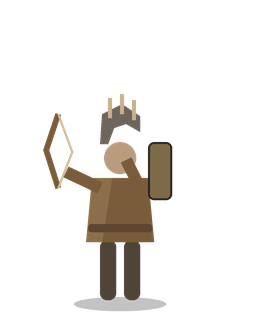
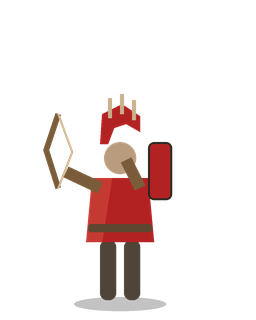
atelier barbares 2D: rouge CUIT dans la base, zero accent (decision Erik 12/09) — village barbare (tente rouge), guerrier et archer barbares (tuniques + details rouges, ~53% du sprite), calques _accent vides donc aucune teinte de rendu; accent barbare revenu au gris-brun d'origine (sans effet); fich

Changed region(s): [[0.3125, 0.4375, 0.6875, 0.7812], [0.375, 0.3125, 0.5625, 0.4688]]

diff --git a/apps/web/src/lib/atelier/catalogue.ts b/apps/web/src/lib/atelier/catalogue.ts
@@ -206,7 +206,10 @@ function sprites2d(): AssetAtelier[] {
   }
   out.push(spriteAsset('ville_settlement', 'Ville (settlement)', `${SRC_GENERATEUR('render_entity')} — textures.ts (cities.settlement)`, true));
   out.push(spriteAsset('ville_capitale', 'Ville (capitale)', `${SRC_GENERATEUR('render_entity')} — textures.ts (cities.capital)`, true));
-  out.push(spriteAsset('village_barbare', 'Village barbare (sprite 2D)', `${SRC_GENERATEUR('render_entity')} — textures.ts (villageBarbare)`, true));
+  // rouge CUIT dans la base (décision Erik 12/09) — aucune variante d'accent
+  out.push(spriteAsset('village_barbare', 'Village barbare (sprite 2D)', `${SRC_GENERATEUR('render_entity')} (rouge cuit) — textures.ts (villageBarbare)`, false));
+  out.push(spriteAsset('unite_barbare_guerrier', 'Guerrier barbare (sprite 2D)', `${SRC_GENERATEUR('render_entity')} (rouge cuit) — textures.ts (units, barbare_guerrier)`, false));
+  out.push(spriteAsset('unite_barbare_archer', 'Archer barbare (sprite 2D)', `${SRC_GENERATEUR('render_entity')} (rouge cuit) — textures.ts (units, barbare_archer)`, false));
   out.push(spriteAsset('hutte', 'Hutte bonus (sprite 2D)', `${SRC_GENERATEUR('render_entity')} — textures.ts (hutte)`, true));
   for (const id of Object.keys(BUILDINGS)) {
     out.push(spriteAsset(`batiment_${id}`, `Bâtiment ${BUILDINGS[id]!.name}`, `${SRC_GENERATEUR('render_entity')} — textures.ts (hutte/unites : modules ville 2D)`, true));

diff --git a/apps/web/tests/atelier-catalogue.test.ts b/apps/web/tests/atelier-catalogue.test.ts
@@ -87,10 +87,14 @@ describe('atelier — catalogue L0', () => {
     for (const id of Object.keys(ARTEFACTS.pool).filter((k) => !ARTEFACTS.pool[k]!.dlcOnly).sort()) {
       attends.push(`artefact_${id}`, `artefact_${id}_accent`);
     }
+    // Barbares (décision Erik 12/09) : rouge CUIT dans la base, AUCUN accent —
+    // village sans `_accent`, unités barbares cataloguées sans accent.
     attends.push(
       'ville_settlement', 'ville_settlement_accent',
       'ville_capitale', 'ville_capitale_accent',
-      'village_barbare', 'village_barbare_accent',
+      'village_barbare',
+      'unite_barbare_guerrier',
+      'unite_barbare_archer',
       'hutte', 'hutte_accent',
     );
     for (const stem of attends) {

diff --git a/apps/web/src/lib/render/textures.ts b/apps/web/src/lib/render/textures.ts
@@ -21,9 +21,11 @@ import type { TerrainId } from '@game/rules';
 
 /** Couleurs d'accent joueurs — SPEC-ART §3.3/§4 (extensible à 8). */
 export const PLAYER_COLORS: Record<string, number> = {
-  p1: 0xd64545, // rouge vif
+  p1: 0xe0a93f, // doré (décision Erik 12/09 : le rouge est réservé aux barbares)
   p2: 0x3b6fd6, // bleu vif
   // R-95 (Phase 7d) : accent dédié des barbares — gris-brun, ni rouge ni bleu.
+  // Sans effet depuis le 12/09 : les sprites barbares ont leur rouge CUIT dans
+  // la base (décision Erik), leurs calques accent sont vides.
   barbarien: 0x8a7a66,
 };
 export function playerColor(engineId: string): number {

diff --git a/apps/web/src/pages/Atelier.svelte b/apps/web/src/pages/Atelier.svelte
@@ -354,7 +354,7 @@
 
   // --- Sprites 2D : variantes d'accent joueur (teinte canvas) -----------------
   const ACCENTS: Array<{ nom: string; couleur: string; cle: string }> = [
-    { nom: 'Joueur 1', couleur: '#d64545', cle: 'p1' },
+    { nom: 'Joueur 1', couleur: '#e0a93f', cle: 'p1' },
     { nom: 'Joueur 2', couleur: '#3b6fd6', cle: 'p2' },
     { nom: 'Barbare', couleur: '#8a7a66', cle: 'barbarien' },
   ];

diff --git a/assets-src/tools/generate.py b/assets-src/tools/generate.py
@@ -662,14 +662,17 @@ def unite_legion(db, da, w, h):
     db.rrect(scut, 10, fill=GRIS_ARMURE, outline=INK, width=3)
     db.rrect((cx - 76, ground - 130, cx - 28, ground - 52), 8, outline=OR, width=3)
     db.ellipse((cx - 58, ground - 104, cx - 46, ground - 92), fill=OR)
-# ------------------------------------------------- barbares (Phase 7d, R-95)
-# Accent dédié côté rendu : gris-brun (ni rouge ni bleu) — les calques accent
-# restent blancs conformément à la SPEC-ART (teinte appliquée au rendu).
+# ------------------------------------------------- barbares (décision Erik 12/09)
+# AUCUNE teinte d'accent pour les barbares : le rouge est CUIT dans la base
+# (convention Civ). Les calques accent de ces trois assets restent vides.
+
+ROUGE_BARBARE = "#B32222"     # tente/étoffes rouges des barbares
+ROUGE_BARBARE_CLAIR = "#C43A32"  # face éclairée (même hue, +lumière)
 
 
 def unite_barbare_guerrier(db, da, w, h):
     """256×320 : guerrier barbare — tunique de peaux, casque à cornes, massue
-    cloutée ; bande d'épaules + ceinture d'os = accent."""
+    cloutée ; bande d'épaules + ceinture ROUGES cuites (aucun accent)."""
     cx, ground = 128, 300
     shadow(db, cx, ground + 4, 52)
     # jambes trapues
@@ -677,14 +680,13 @@ def unite_barbare_guerrier(db, da, w, h):
     db.rrect((cx + 6, ground - 58, cx + 26, ground), 8, fill="#4E4438")
     db.rrect((cx - 30, ground - 8, cx - 2, ground + 2), 4, fill="#3E342A")
     db.rrect((cx + 2, ground - 8, cx + 30, ground + 2), 4, fill="#3E342A")
-    # tunique de peaux (brun fauve) — plus rugueuse que le guerrier régulier
+    # tunique de peaux TEINTE ROUGE — la majeure du sprite (décision Erik 12/09)
     db.poly([(cx - 36, ground - 132), (cx + 36, ground - 132), (cx + 42, ground - 54),
-             (cx - 42, ground - 54)], fill="#7A5C3A")
+             (cx - 42, ground - 54)], fill=ROUGE_BARBARE)
     db.poly([(cx - 36, ground - 132), (cx - 8, ground - 132), (cx - 20, ground - 54),
-             (cx - 42, ground - 54)], fill="#8A6F4A")
-    # ceinture d'os = accent
-    db.rrect((cx - 38, ground - 82, cx + 38, ground - 72), 3, fill="#5E4630")
-    da.rrect((cx - 34, ground - 80, cx + 34, ground - 74), 2, fill="#FFFFFF")
+             (cx - 42, ground - 54)], fill=ROUGE_BARBARE_CLAIR)
+    # ceinture rouge (cuite, plus d'accent)
+    db.rrect((cx - 38, ground - 82, cx + 38, ground - 72), 3, fill=ROUGE_BARBARE)
     # tête + casque à cornes
     db.ellipse((cx - 18, ground - 172, cx + 18, ground - 136), fill="#B99B7E")
     db.pieslice((cx - 20, ground - 178, cx + 20, ground - 142), 180, 360, fill="#6E655C")
@@ -696,31 +698,31 @@ def unite_barbare_guerrier(db, da, w, h):
     db.ellipse((cx + 42, ground - 224, cx + 74, ground - 190), fill="#6E655C")
     for x, y in [(50, 210), (60, 196), (46, 194)]:
         db.ellipse((cx + x - 3, ground - y - 3, cx + x + 3, ground - y + 3), fill="#4E4438")
-    # bras gauche + bande d'épaules = accent
+    # bras gauche + bande d'épaules rouge (cuite, plus d'accent)
     db.line([(cx - 26, ground - 118), (cx - 50, ground - 96)], fill="#7A5C3A", width=13)
-    da.poly([(cx - 34, ground - 132), (cx + 34, ground - 132), (cx + 30, ground - 118),
-             (cx - 30, ground - 118)], fill="#FFFFFF")
+    db.poly([(cx - 34, ground - 132), (cx + 34, ground - 132), (cx + 30, ground - 118),
+             (cx - 30, ground - 118)], fill=ROUGE_BARBARE)
 
 
 def unite_barbare_archer(db, da, w, h):
-    """256×320 : archer barbare — plumes, arc de chasse ; coiffe + carquois = accent."""
+    """256×320 : archer barbare — plumes, arc de chasse ; coiffe + carquois
+    ROUGES cuits (aucun accent)."""
     cx, ground = 120, 300
     shadow(db, cx, ground + 4, 46)
     db.rrect((cx - 20, ground - 60, cx - 4, ground), 7, fill="#4E4438")
     db.rrect((cx + 4, ground - 60, cx + 20, ground), 7, fill="#4E4438")
-    # tunique de peaux courte
+    # tunique de peaux courte TEINTE ROUGE — la majeure du sprite
     db.poly([(cx - 28, ground - 122), (cx + 28, ground - 122), (cx + 34, ground - 58),
-             (cx - 34, ground - 58)], fill="#7A5C3A")
+             (cx - 34, ground - 58)], fill=ROUGE_BARBARE)
     db.poly([(cx - 28, ground - 122), (cx - 8, ground - 122), (cx - 18, ground - 58),
-             (cx - 34, ground - 58)], fill="#8A6F4A")
+             (cx - 34, ground - 58)], fill=ROUGE_BARBARE_CLAIR)
     db.rrect((cx - 32, ground - 76, cx + 32, ground - 68), 3, fill="#5E4630")
-    # tête + coiffe à plumes = accent
+    # tête + coiffe à plumes ROUGE (cuite, plus d'accent)
     db.ellipse((cx - 16, ground - 158, cx + 16, ground - 126), fill="#B99B7E")
     hood = [(cx - 20, ground - 156), (cx - 18, ground - 186), (cx + 2, ground - 196),
             (cx + 20, ground - 184), (cx + 20, ground - 168), (cx + 6, ground - 176),
             (cx - 6, ground - 172), (cx - 12, ground - 156)]
-    db.poly(hood, fill="#6E655C")
-    da.poly(hood, fill="#FFFFFF")
+    db.poly(hood, fill=ROUGE_BARBARE)
     for dx, dy in ((-10, -6), (2, -10), (14, -4)):
         db.line([(cx + dx, ground - 176 + dy), (cx + dx, ground - 196 + dy)],
                 fill="#C8B08A", width=4)
@@ -732,21 +734,19 @@ def unite_barbare_archer(db, da, w, h):
             fill=SABLE, width=2)
     # bras tirant la corde
     db.line([(cx + 20, ground - 112), (cx + 6, ground - 140)], fill="#7A5C3A", width=12)
-    # carquois = accent
+    # carquois ROUGE (cuit, plus d'accent)
     quiver = (cx + 28, ground - 158, cx + 52, ground - 100)
-    db.rrect(quiver, 6, fill="#7E6A48", outline=INK, width=2)
-    da.rrect(quiver, 6, fill="#FFFFFF")
+    db.rrect(quiver, 6, fill=ROUGE_BARBARE, outline=INK, width=2)
 
 
 def village_barbare(db, da, w, h):
-    """224×256 : camp barbare — tente de peaux + feu de camp + pavois ;
-    toit de la tente = accent (gris-brun au rendu)."""
+    """224×256 : camp barbare — tente de peaux ROUGE (cuite, aucun accent)
+    + feu de camp + pavois ; se distingue nettement de la hutte dorée."""
     shadow(db, 112, 210, 80)
-    # tente principale (peaux tendues sur piquets)
-    db.poly([(112, 84), (44, 210), (180, 210)], fill="#8A6F4A")
-    db.poly([(112, 84), (44, 210), (112, 210)], fill="#9C7F5A")
+    # tente principale rouge (peaux teintées tendues sur piquets)
+    db.poly([(112, 84), (44, 210), (180, 210)], fill=ROUGE_BARBARE)
+    db.poly([(112, 84), (44, 210), (112, 210)], fill=ROUGE_BARBARE_CLAIR)
     db.poly([(112, 84), (44, 210), (180, 210)], outline=INK, width=2.5)
-    da.poly([(112, 84), (44, 210), (112, 210)], fill="#FFFFFF")
     # ouverture sombre
     db.poly([(100, 160), (124, 160), (132, 210), (92, 210)], fill="#3E342A")
     # piquets

diff --git a/assets-src/LICENSES.md b/assets-src/LICENSES.md
@@ -14,4 +14,4 @@ Aucune ressource tierce, aucune police, aucun texte incorporé.
 Annexe palette : voir `palette.txt` (hex figés).
 
 Régénérer après modification : `python tools/generate.py`.
-Dernière génération : 2026-09-04
+Dernière génération : 2026-09-12
